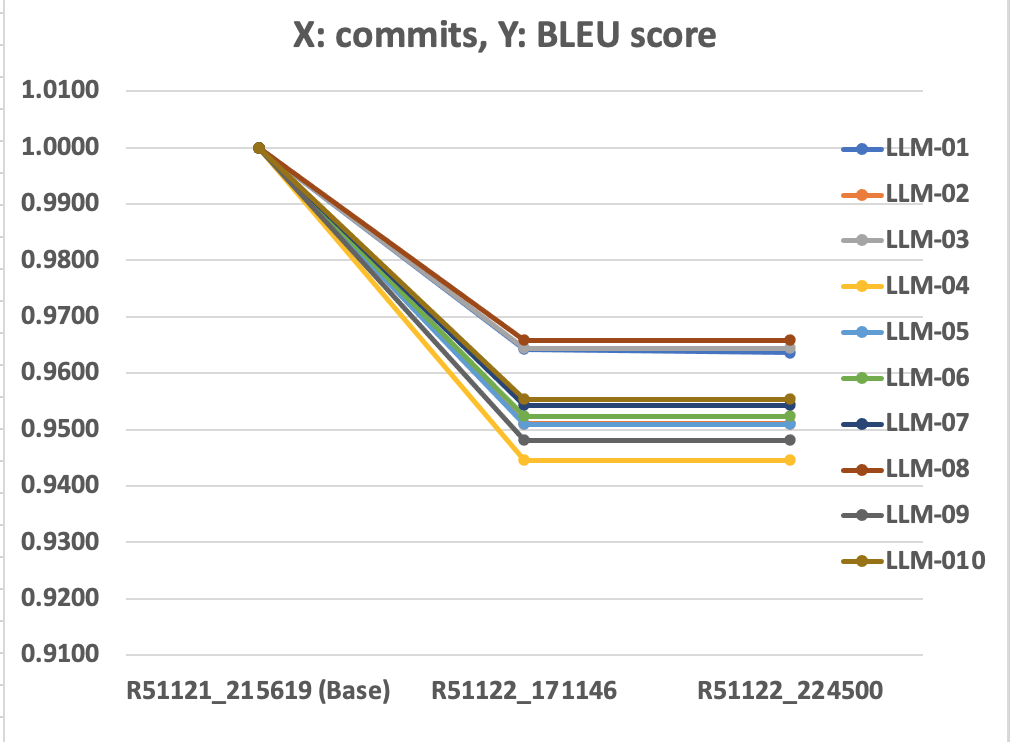
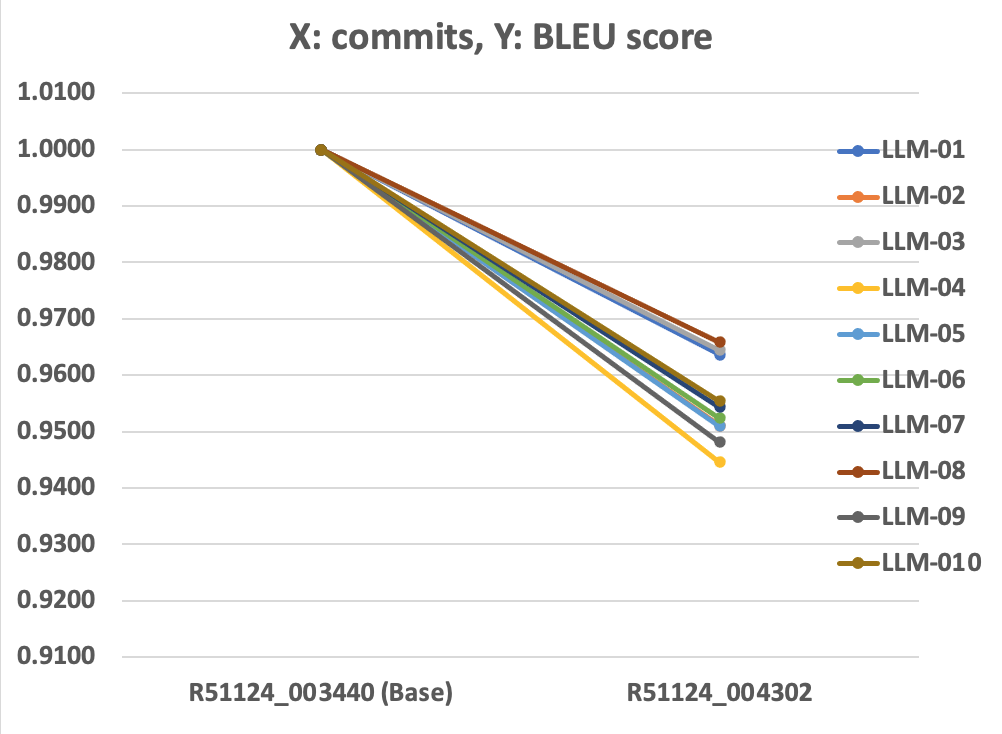
Update Wiki md and BLEU score png

diff --git a/1.1-ja/assets/Top10_for_LLM_Wiki.md b/1.1-ja/assets/Top10_for_LLM_Wiki.md
@@ -9,27 +9,27 @@ OWASP Top 10 for Large Language Model Applications 全体の情報は、
 
 ### 進捗状況 - コミット毎の変更箇所
 
+**翻訳・更新が行われると、新しいコミットが上に追加されていきます。**
 | Changes in the commit | Commit message |
 | ----------- | --------------------- |
-| [R51122_224500](https://github.com/Setotet/Top10-for-LLM/commit/95588cd42e3b6a926eb754aad5e4ea532339f9c7?diff-split) | Fix section title and increase precision to .4f |
-| [R51122_171146](https://github.com/Setotet/Top10-for-LLM/commit/4d6866e1e44e4994d581848ca814459895bf9858?diff-split) | Apply 1_1_vulns/_template.md |
-| [R51121_215619](https://github.com/Setotet/Top10-for-LLM/tree/1.1-ja/1.1-ja/1.0-ja_orig) | Prepare for 1.1-ja |
+| [R51124_004302](https://github.com/Setotet/Top10-for-LLM/commit/3b24256306b2f0079202850dad403fd32e2e91db?diff-split) | Prepare for 1.1-ja translation |
+| [R51124_003440](https://github.com/Setotet/Top10-for-LLM/tree/1.1-ja/1.1-ja/1.0-ja_orig) | Base 1.0-ja |
 
-### 進捗状況 - 現在までの全ての変更箇所と現在のBLEU score
+### 進捗状況 - 全ての変更箇所と現在のBLEU score
 
 **LLM-xx リンクをクッリクすると、github.comは全てのファイルを拡張表示します。注目のmdファイルまでスクロール・ダウンするか、または、左端の vマーク をクリックし、注目外のファイルを非表示にしてください。**
 | Chapter title | All changes made so far | BLEU score |
 | ------------- | --------------------- | ---------- |
-| PromptInjection | [LLM-01](https://github.com/Setotet/Top10-for-LLM/compare/9dfd8992912115f1939db5e2ec02345eaf1c79ce...1.1-ja#LLM10-Model_Theft.md?diff=split) | 0.9636 |
-| InsecureOutputHandling | [LLM-02](https://github.com/Setotet/Top10-for-LLM/compare/9dfd8992912115f1939db5e2ec02345eaf1c79ce...1.1-ja#LLM10-Model_Theft.md?diff=split) | 0.9510 |
-| TrainingDataPoisoning | [LLM-03](https://github.com/Setotet/Top10-for-LLM/compare/9dfd8992912115f1939db5e2ec02345eaf1c79ce...1.1-ja#LLM10-Model_Theft.md?diff=split) | 0.9644 |
-| ModelDoS | [LLM-04](https://github.com/Setotet/Top10-for-LLM/compare/9dfd8992912115f1939db5e2ec02345eaf1c79ce...1.1-ja#LLM10-Model_Theft.md?diff=split) | 0.9446 |
-| SupplyChainVulnerabilities | [LLM-05](https://github.com/Setotet/Top10-for-LLM/compare/9dfd8992912115f1939db5e2ec02345eaf1c79ce...1.1-ja#LLM10-Model_Theft.md?diff=split) | 0.9509 |
-| SensitiveInformationDisclosure | [LLM-06](https://github.com/Setotet/Top10-for-LLM/compare/9dfd8992912115f1939db5e2ec02345eaf1c79ce...1.1-ja#LLM10-Model_Theft.md?diff=split) | 0.9524 |
-| InsecurePluginDesign | [LLM-07](https://github.com/Setotet/Top10-for-LLM/compare/9dfd8992912115f1939db5e2ec02345eaf1c79ce...1.1-ja#LLM10-Model_Theft.md?diff=split) | 0.9543 |
-| ExcessiveAgency | [LLM-08](https://github.com/Setotet/Top10-for-LLM/compare/9dfd8992912115f1939db5e2ec02345eaf1c79ce...1.1-ja#LLM10-Model_Theft.md?diff=split) | 0.9658 |
-| Overreliance | [LLM-09](https://github.com/Setotet/Top10-for-LLM/compare/9dfd8992912115f1939db5e2ec02345eaf1c79ce...1.1-ja#LLM10-Model_Theft.md?diff=split) | 0.9481 |
-| ModelTheft | [LLM-10](https://github.com/Setotet/Top10-for-LLM/compare/9dfd8992912115f1939db5e2ec02345eaf1c79ce...1.1-ja#LLM10-Model_Theft.md?diff=split) | 0.9554 |
+| PromptInjection | [LLM-01](https://github.com/Setotet/Top10-for-LLM/compare/42e86edd93c3ffd7578dcfae3243b8f478272cc5...1.1-ja?diff=split) | 0.9636 |
+| InsecureOutputHandling | [LLM-02](https://github.com/Setotet/Top10-for-LLM/compare/42e86edd93c3ffd7578dcfae3243b8f478272cc5...1.1-ja?diff=split) | 0.9510 |
+| TrainingDataPoisoning | [LLM-03](https://github.com/Setotet/Top10-for-LLM/compare/42e86edd93c3ffd7578dcfae3243b8f478272cc5...1.1-ja?diff=split) | 0.9644 |
+| ModelDoS | [LLM-04](https://github.com/Setotet/Top10-for-LLM/compare/42e86edd93c3ffd7578dcfae3243b8f478272cc5...1.1-ja?diff=split) | 0.9446 |
+| SupplyChainVulnerabilities | [LLM-05](https://github.com/Setotet/Top10-for-LLM/compare/42e86edd93c3ffd7578dcfae3243b8f478272cc5...1.1-ja?diff=split) | 0.9509 |
+| SensitiveInformationDisclosure | [LLM-06](https://github.com/Setotet/Top10-for-LLM/compare/42e86edd93c3ffd7578dcfae3243b8f478272cc5...1.1-ja?diff=split) | 0.9524 |
+| InsecurePluginDesign | [LLM-07](https://github.com/Setotet/Top10-for-LLM/compare/42e86edd93c3ffd7578dcfae3243b8f478272cc5...1.1-ja?diff=split) | 0.9543 |
+| ExcessiveAgency | [LLM-08](https://github.com/Setotet/Top10-for-LLM/compare/42e86edd93c3ffd7578dcfae3243b8f478272cc5...1.1-ja?diff=split) | 0.9658 |
+| Overreliance | [LLM-09](https://github.com/Setotet/Top10-for-LLM/compare/42e86edd93c3ffd7578dcfae3243b8f478272cc5...1.1-ja?diff=split) | 0.9481 |
+| ModelTheft | [LLM-10](https://github.com/Setotet/Top10-for-LLM/compare/42e86edd93c3ffd7578dcfae3243b8f478272cc5...1.1-ja?diff=split) | 0.9554 |
 
 ### BLEU scoreについて
 
